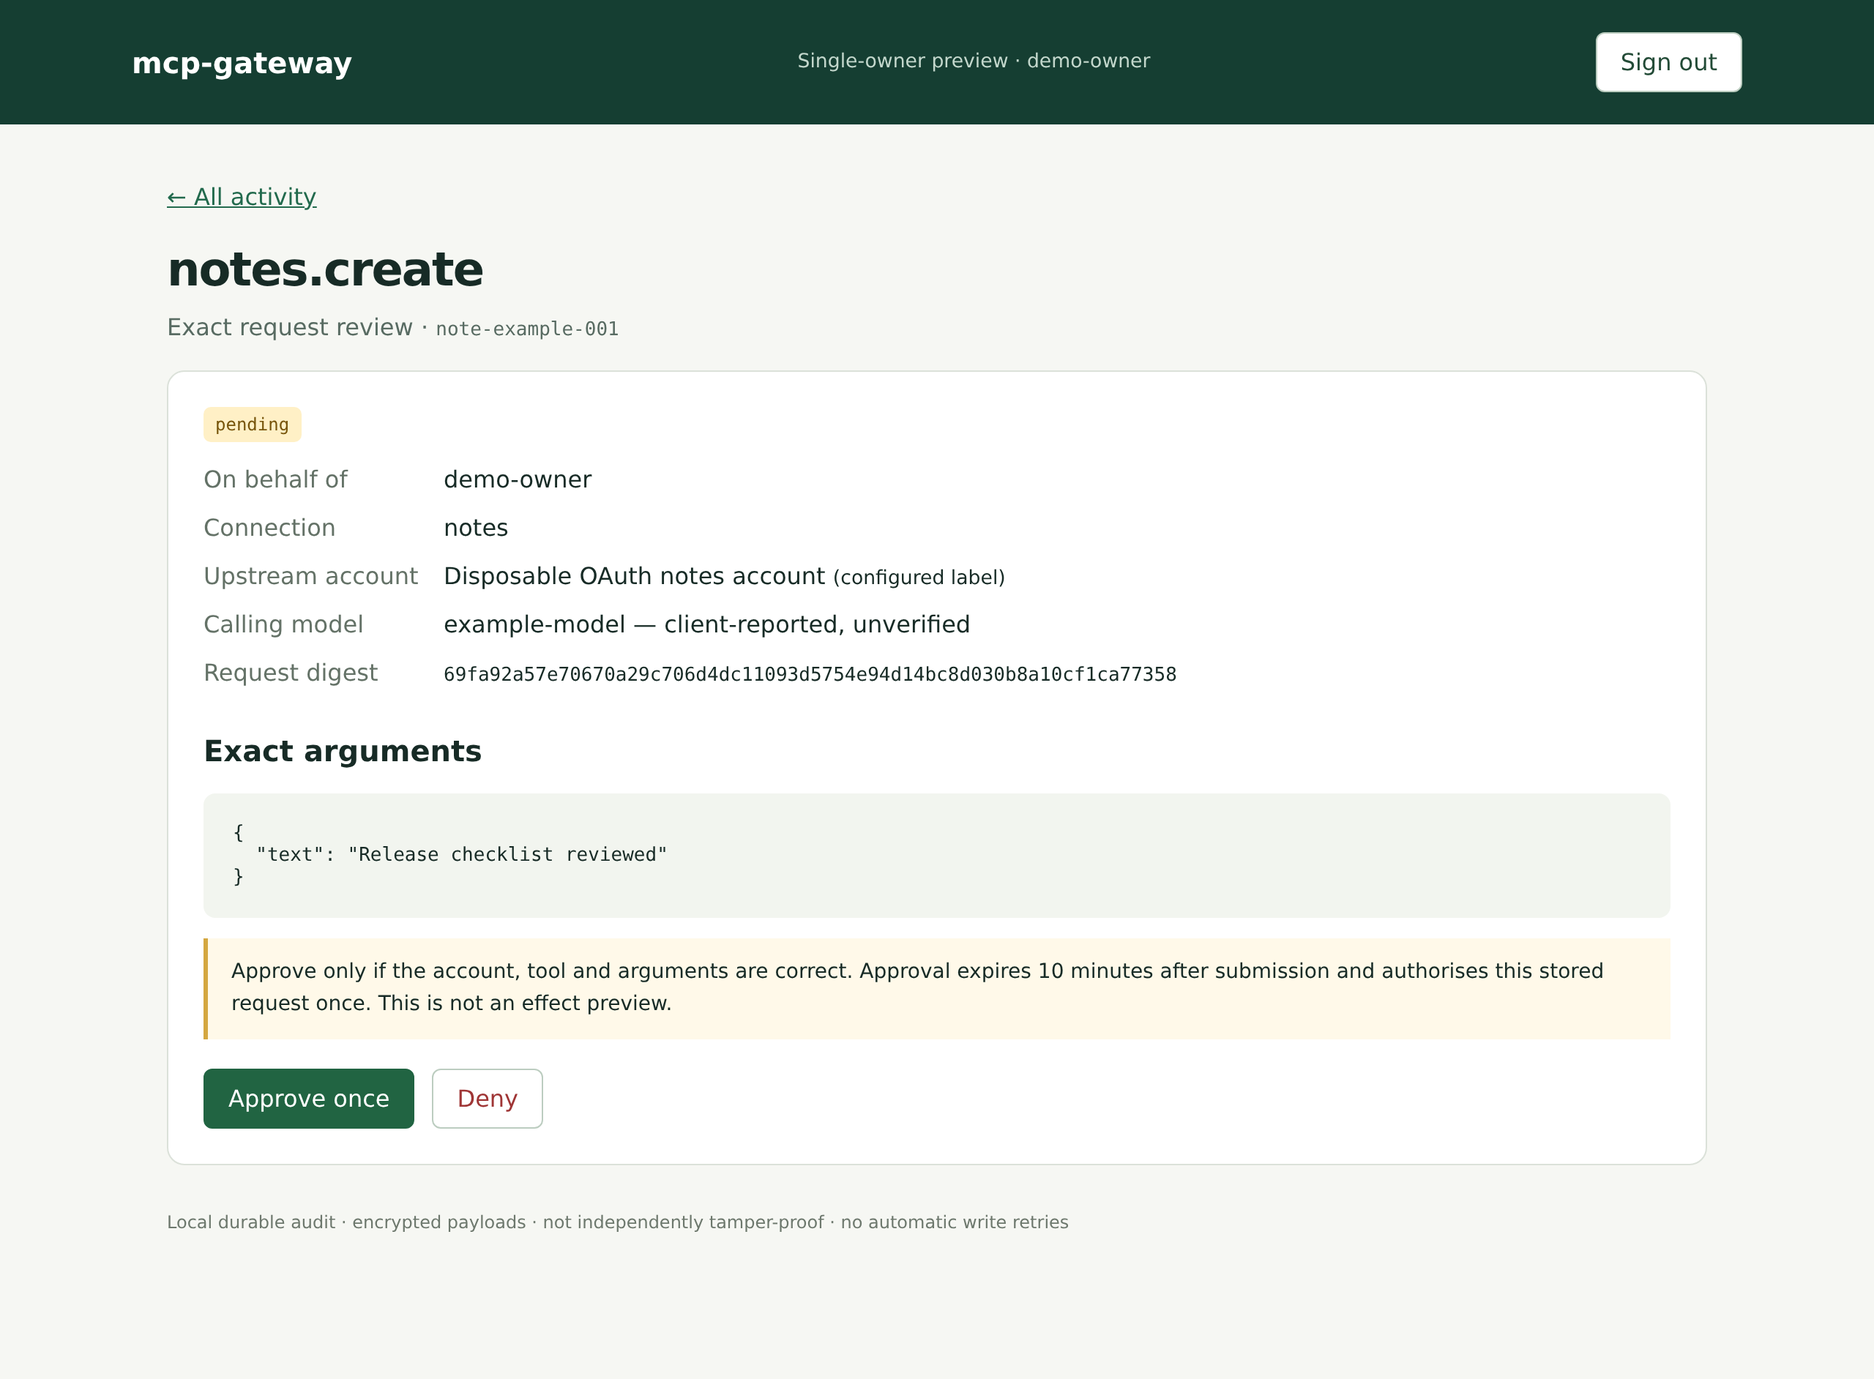
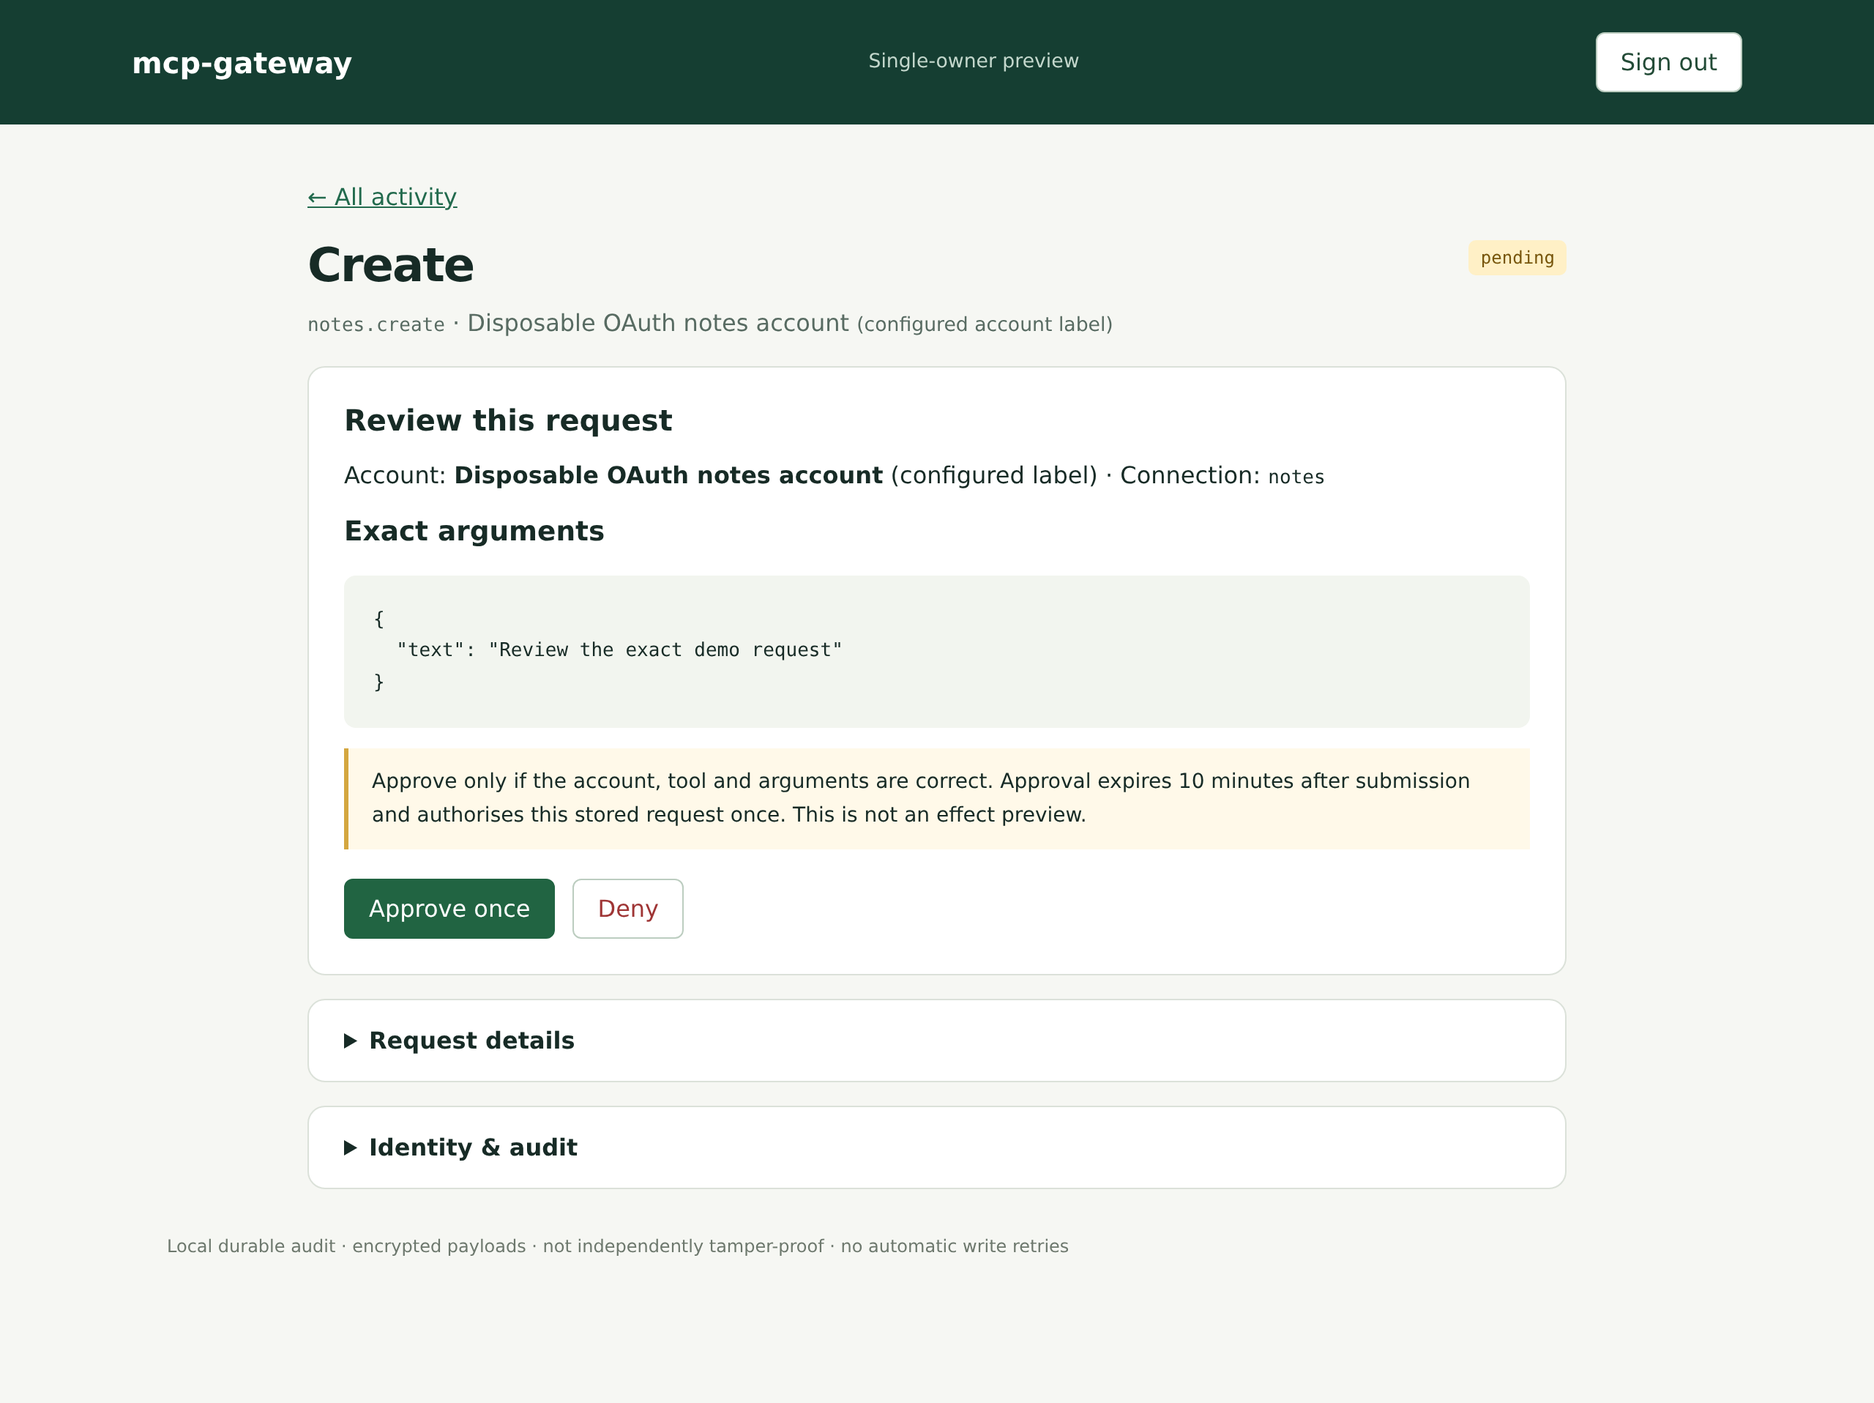
Show operation results first with readable MCP content
Amp-Thread-ID: https://ampcode.com/threads/T-01a0b6d8-e50f-7723-941c-60bca63723ba

diff --git a/internal/gateway/page.go b/internal/gateway/page.go
@@ -9,7 +9,7 @@ var page = template.Must(template.New("page").Parse(`<!doctype html>
 .heading{display:flex;justify-content:space-between;align-items:center;gap:16px}.setup{max-width:760px;margin:auto}.field{display:grid;gap:8px;margin-bottom:22px}.field label{font-weight:600}.field small,.help{color:#586b62;line-height:1.5}input,select{box-sizing:border-box;width:100%;padding:11px 12px;border:1px solid #bccdc0;border-radius:6px;background:white;color:#172b26;font:inherit}input:focus,select:focus{outline:2px solid #216442;outline-offset:2px}.setup details{margin:16px 0}.setup summary,summary{cursor:pointer}.setup details .field{margin-top:18px}.error{background:#fde9e5;border-left:3px solid #9f3535;padding:16px}.success{background:#dff3e5;padding:16px}.setup form:not(:has(option[value="bearer"]:checked)) .bearer-fields{display:none}.setup form:not(:has(option[value="oauth"]:checked)) .oauth-fields{display:none}.tool-row{display:grid;grid-template-columns:minmax(0,1fr) 210px;gap:24px;padding:22px 0;border-bottom:1px solid #e7ebe5}.tool-row:last-child{border:0}.tool-row h2{margin:0 0 8px;font:600 16px ui-monospace,monospace;overflow-wrap:anywhere}.tool-row p{line-height:1.5;overflow-wrap:anywhere}.tool-row details{margin-top:12px}.tool-row label{display:block;font-size:13px;margin-bottom:8px}.actions{flex-wrap:wrap}.endpoint{overflow-wrap:anywhere} @media(max-width:600px){.tool-row{grid-template-columns:1fr;gap:8px}.heading{align-items:flex-start;flex-direction:column}}
 @media(min-width:601px){.tool-row{grid-template-columns:minmax(0,1fr) 260px}}
 .permissions{max-width:820px;margin:auto}.connection-heading{display:flex;justify-content:space-between;align-items:center;gap:20px;margin:18px 0 6px}.connection-heading h1{margin:0;font-size:28px;overflow-wrap:anywhere}.auth-status{flex-shrink:0;font-size:13px;list-style:none;border:1px solid #bccdc0;border-radius:6px;padding:8px 12px;cursor:pointer;color:#226a4d}.auth-status::-webkit-details-marker{display:none}.auth-status:before{content:'●';margin-right:8px}.auth-status.pending{color:#77550b}.auth-details{max-width:440px}.auth-details[open]{align-self:flex-start}.auth-details .help{font-size:13px}.auth-details summary:focus-visible,button:focus-visible,.button:focus-visible{outline:2px solid #216442;outline-offset:3px}.permission-default{border:0;padding:0;margin:38px 0 28px;min-width:0}.permission-default legend{font-size:16px;font-weight:650;padding:0}.permission-default .help{font-size:14px;margin:8px 0 16px}.default-options{display:flex;border:1px solid #bccdc0;border-radius:6px;overflow:hidden;background:white}.default-options label{position:relative;flex:1;text-align:center;cursor:pointer}.default-options label+label{border-left:1px solid #bccdc0}.default-options input{position:absolute;opacity:0;width:1px;height:1px}.default-options span{display:flex;align-items:center;justify-content:center;min-height:44px;padding:8px;font-size:14px;height:100%}.default-options input:checked+span{background:#216442;color:white}.default-options input:focus-visible+span{outline:2px solid #172b26;outline-offset:-4px}.default-warning{color:#9c3724}.permissions .note{margin:24px 0}.exceptions-card{border-radius:7px;padding:22px;margin:24px 0}.exceptions-heading{display:flex;align-items:start;justify-content:space-between;gap:16px;margin-bottom:22px}.exceptions-heading h2{margin:6px 0 0;font-size:18px}.refresh-tools{text-align:right}.refresh-tools button{padding:7px 12px;font-size:13px}.refresh-tools .help{margin:6px 0 0;font-size:12px}.exception-search{display:flex;gap:12px;margin-bottom:16px}.exception-search input{flex:1;min-width:0;font-size:14px}.exception-search button{white-space:nowrap;font-size:14px}.policy-columns,.policy-row{display:grid;grid-template-columns:minmax(0,1fr) 210px 32px;gap:14px;align-items:center}.policy-columns{background:#f5f7f3;padding:10px 8px;border-block:1px solid #e7ebe5;font-size:12px}.policy-row{padding:12px 8px;border-bottom:1px solid #e7ebe5}.policy-row summary{overflow-wrap:anywhere;font-size:14px;cursor:pointer}.policy-row details p{font-size:13px;line-height:1.5;overflow-wrap:anywhere}.policy-row select{font-size:13px;padding:9px 10px}.policy-row pre{padding:12px}.remove-exception{padding:6px;border:0;background:transparent;line-height:1;display:flex;justify-content:center}.remove-exception svg{width:17px;height:17px}.tool-select{display:none}.permissions input[type=checkbox]{width:16px;height:16px;margin:0;accent-color:#216442}.bulk-mode .policy-columns,.bulk-mode .policy-row{grid-template-columns:20px minmax(0,1fr) 210px 32px}.bulk-mode .tool-select{display:block}.bulk-actions{display:flex;align-items:center;flex-wrap:wrap;gap:8px;margin:16px 0;font-size:13px}.bulk-actions button{font-size:12px;padding:7px 10px}.bulk-actions span{margin-right:auto}.tool-navigation{display:flex;flex-wrap:wrap;align-items:center;gap:16px;margin-top:18px;font-size:13px}.text-button{border:0;padding:0;background:transparent;color:#226a4d;text-decoration:underline;font-size:13px}.tool-navigation .help{margin:0;margin-right:auto;font-size:12px}.policy-footer .help{font-size:12px}.policy-footer .actions{margin-top:28px}.visually-hidden{position:absolute;width:1px;height:1px;padding:0;margin:-1px;overflow:hidden;clip-path:inset(50%);white-space:nowrap;border:0}[hidden]{display:none!important}@media(max-width:600px){.connection-heading{align-items:flex-start;flex-direction:column;gap:12px}.auth-details{max-width:100%}.exceptions-card{padding:16px}.policy-columns,.policy-row{grid-template-columns:minmax(0,1fr) 32px;gap:10px}.policy-columns .permission-column{display:none}.policy-row details{grid-column:1}.policy-row .policy-choice{grid-column:1;grid-row:2}.policy-row .remove-exception{grid-column:2;grid-row:2}.bulk-mode .policy-columns,.bulk-mode .policy-row{grid-template-columns:20px minmax(0,1fr) 32px}.bulk-mode .policy-row details,.bulk-mode .policy-row .policy-choice{grid-column:2}.bulk-mode .policy-row .remove-exception{grid-column:3}.exception-search{flex-wrap:wrap}.exception-search input{flex-basis:100%}.default-options span{font-size:12px}.exceptions-heading{gap:8px}.refresh-tools{max-width:55%}}
-</style></head><body><header><a href="/">mcp-gateway</a><small>Single-owner preview · {{.Owner}}</small><form method="post" action="/logout"><button>Sign out</button></form></header><main>
+</style></head><body><header><a href="/">mcp-gateway</a><small>Single-owner preview{{if not .Operation}} · {{.Owner}}{{end}}</small><form method="post" action="/logout"><button>Sign out</button></form></header><main>
 {{if .AddConnection}}
 <div class="setup"><a href="/">← Connections</a><h1>Add MCP</h1><p class="sub">Connect a remote server, then choose which tools agents can use.</p>
 {{if .Error}}<p class="error" role="alert">{{.Error}}</p>{{end}}
@@ -118,8 +118,19 @@ var page = template.Must(template.New("page").Parse(`<!doctype html>
 </script>
 {{else}}<p class="help">Open <a href="/connections/{{.Connection.ID}}/tools">saved permissions</a> to edit without fetching the provider.</p><button form="refresh-tools">Refresh tools</button>{{end}}</div>
 {{else}}
-{{with .Operation}}{{if .AmpThreadID}}<p class="note">Requested by Amp user <code>{{.AmpUserID}}</code> · <a href="https://ampcode.com/threads/{{.AmpThreadID}}">Open Amp thread</a><br>Identity verified by Amp. This is not human approval or model attestation.</p>{{end}}{{end}}
-{{if .Operation}}{{with .Operation}}<a href="/">← All activity</a><h1>{{.Tool}}</h1><p class="sub">Exact request review · <code>{{.ID}}</code></p><div class="card"><span class="badge {{.Status}}">{{.Status}}</span><dl><dt>On behalf of</dt><dd>{{.Subject}}</dd><dt>Connection</dt><dd>{{.Connection}}</dd><dt>Upstream account</dt><dd>{{.Account}} <small>(configured label)</small></dd><dt>Calling model</dt><dd>{{if .Model}}{{.Model}} — client-reported, unverified{{else}}Unknown — not supplied by client{{end}}</dd><dt>Request digest</dt><dd><code>{{.Digest}}</code></dd></dl><h2>Exact arguments</h2><pre>{{$.Arguments}}</pre>{{if eq .Status "pending"}}<p class="note">Approve only if the account, tool and arguments are correct. Approval expires 10 minutes after submission and authorises this stored request once. This is not an effect preview.</p><div class="actions"><form method="post" action="/operations/{{.ID}}/approve"><button class="primary">Approve once</button></form><form method="post" action="/operations/{{.ID}}/deny"><button class="danger">Deny</button></form></div>{{else}}<p class="sub">Refresh to see the latest durable execution status.</p><a class="button" href="/operations/{{.ID}}">Refresh status</a>{{end}}{{if .Result}}<h2>Upstream result</h2><pre>{{printf "%s" .Result}}</pre>{{end}}</div>{{end}}
+{{if .Operation}}{{with .Operation}}
+<section class="operation"><style>.operation{max-width:860px;margin:auto;overflow-wrap:anywhere}.operation h1{text-transform:capitalize}.operation .heading h1{margin-top:18px}.operation h2{margin-top:0}.operation summary{font-weight:600}.operation details.card{padding:18px 24px}.operation pre{line-height:1.65;font-size:13px}.operation .attribution{font-size:14px;margin:22px 0}.operation .result pre{background:#f7f9f5;border:1px solid #e7ebe5}.operation .result details{margin-top:24px}.operation .result summary{font-size:13px;color:#586b62}</style>
+<a href="/">← All activity</a><div class="heading"><h1>{{$.Title}}</h1><span class="badge {{.Status}}" role="status">{{.Status}}</span></div>
+<p class="sub"><code>{{.Tool}}</code> · {{.Account}} <small>(configured account label)</small></p>
+{{if .AmpThreadID}}<p class="attribution"><a href="https://ampcode.com/threads/{{.AmpThreadID}}">Open Amp thread ↗</a> · Amp identity verified. Not human approval or model attestation.</p>{{end}}
+{{if eq .Status "pending"}}<div class="card"><h2>Review this request</h2><p>Account: <strong>{{.Account}}</strong> (configured label) · Connection: <code>{{.Connection}}</code></p><h3>Exact arguments</h3><pre>{{$.Arguments}}</pre><p class="note">Approve only if the account, tool and arguments are correct. Approval expires 10 minutes after submission and authorises this stored request once. This is not an effect preview.</p><div class="actions"><form method="post" action="/operations/{{.ID}}/approve"><button class="primary">Approve once</button></form><form method="post" action="/operations/{{.ID}}/deny"><button class="danger">Deny</button></form></div></div>
+{{else if or (eq .Status "ready") (eq .Status "running")}}<p class="sub">Refresh to see the latest execution status.</p><a class="button" href="/operations/{{.ID}}">Refresh status</a>
+{{else if eq .Status "unknown"}}<p class="note">The outcome is unknown. Check the upstream service before trying again. This call will not be retried automatically.</p>
+{{else if eq .Status "denied"}}<p class="sub">This request was denied and was not executed.</p>
+{{else if eq .Status "expired"}}<p class="sub">This request expired and was not executed.</p>{{end}}
+{{if .Result}}<div class="card result"><h2>{{if eq .Status "failed"}}Error response{{else}}Result{{end}}</h2>{{range $.ResultBlocks}}<pre>{{.}}</pre>{{end}}<details><summary>{{if eq .Status "unknown"}}Stored response{{else}}Raw MCP response{{end}}</summary><pre>{{$.RawResult}}</pre></details></div>{{end}}
+<details class="card"><summary>Request details</summary><dl><dt>Request ID</dt><dd><code>{{.ID}}</code></dd><dt>Tool</dt><dd><code>{{.Tool}}</code></dd><dt>Connection</dt><dd>{{.Connection}}</dd></dl><h3>Exact arguments</h3><pre>{{$.Arguments}}</pre></details>
+<details class="card"><summary>Identity &amp; audit</summary><dl><dt>On behalf of</dt><dd>{{.Subject}}</dd>{{if .AmpUserID}}<dt>Amp user</dt><dd><code>{{.AmpUserID}}</code> (verified)</dd>{{end}}<dt>Upstream account</dt><dd>{{.Account}} <small>(configured label, not verified identity)</small></dd><dt>Calling model</dt><dd>{{if .Model}}{{.Model}} — client-reported, unverified{{else}}Unknown — not supplied by client{{end}}</dd><dt>Request digest</dt><dd><code>{{.Digest}}</code></dd></dl></details></section>{{end}}
 {{else}}<h1>Connections and activity</h1><p class="sub">Choose the tools agents can use. Review calls that need your approval.</p><div class="heading"><h2>Connections</h2><a class="button primary" href="/connections/new">Add MCP</a></div><div class="grid">{{range .Connections}}<div class="card"><strong>{{.ID}}</strong><p class="sub">{{.Account}}</p>
 {{if .OAuth}}<p role="status" style="display:flex;align-items:center;flex-wrap:wrap;gap:8px"><span class="badge {{if eq .AuthStatus "Connected"}}succeeded{{else}}pending{{end}}">OAuth · {{.AuthStatus}}</span><small><a href="/connections/{{.ID}}/connect">{{if eq .AuthStatus "Not connected"}}Connect{{else}}Reconnect{{end}}</a></small></p>
 {{if eq .AuthStatus "Connected"}}<p class="help"><small>Credentials saved; provider access not verified.</small></p>{{else if eq .AuthStatus "Status unavailable"}}<p class="help"><small>Could not read saved credentials. Try again before reconnecting.</small></p>{{end}}{{end}}

diff --git a/internal/gateway/gateway_test.go b/internal/gateway/gateway_test.go
@@ -239,3 +239,62 @@ func TestMCPProtocolAndApprovalUI(t *testing.T) {
 		t.Fatal("missing schema")
 	}
 }
+
+func TestOperationPresentation(t *testing.T) {
+	for _, status := range []string{"pending", "ready", "running", "succeeded", "failed", "denied", "expired", "unknown"} {
+		t.Run(status, func(t *testing.T) {
+			g, s, _ := fixture(t)
+			o := store.Operation{ID: "display-test", Tool: "notes.list_items", Connection: "notes", Account: "test account", Status: status, Arguments: map[string]any{"text": "exact request"}}
+			if status == "succeeded" || status == "failed" {
+				o.Result = json.RawMessage(`{"content":[{"type":"text","text":"{\"id\":9007199254740993,\"extra\":true}"},{"type":"text","text":"<script>alert(1)</script>"},{"type":"resource_link","uri":"https://example.com/item"},{"type":"text","text":"{\"count\":2}"}],"structuredContent":{"count":2},"_meta":{"trace":"kept"}}`)
+			}
+			if _, err := s.Submit(t.Context(), o); err != nil {
+				t.Fatal(err)
+			}
+			r := httptest.NewRequest("GET", "/operations/display-test", nil)
+			r.SetPathValue("id", o.ID)
+			w := httptest.NewRecorder()
+			g.operation(w, r)
+			body := w.Body.String()
+			if strings.Contains(body, "Refresh status") != (status == "ready" || status == "running") {
+				t.Fatal("incorrect refresh control")
+			}
+			if strings.Contains(body, "Approve once") != (status == "pending") {
+				t.Fatal("incorrect approval control")
+			}
+			if status == "pending" && strings.Index(body, "exact request") > strings.Index(body, "Approve once") {
+				t.Fatal("arguments must precede approval")
+			}
+			if len(o.Result) > 0 {
+				if strings.Count(body, "<pre>{\n  &#34;count&#34;: 2\n}</pre>") != 1 {
+					t.Fatal("identical structured and text content should be shown once")
+				}
+				if !strings.Contains(body, "<pre>{\n  &#34;id&#34;: 9007199254740993,\n  &#34;extra&#34;: true\n}</pre>") {
+					t.Fatal("text content must be decoded and formatted, not just present in the raw response")
+				}
+				for _, want := range []string{"9007199254740993", "extra", "resource_link", "https://example.com/item", "count", "kept", "Raw MCP response", "&lt;script&gt;"} {
+					if !strings.Contains(body, want) {
+						t.Errorf("missing %s", want)
+					}
+				}
+				if strings.Contains(body, "<script>alert") {
+					t.Fatal("unescaped upstream output")
+				}
+				if strings.Index(body, "9007199254740993") > strings.Index(body, "Request details") {
+					t.Fatal("result should come first")
+				}
+			}
+		})
+	}
+}
+
+func TestPrettyJSON(t *testing.T) {
+	for _, tc := range []struct{ input, want string }{
+		{`{"id":9007199254740993,"id":2}`, "{\n  \"id\": 9007199254740993,\n  \"id\": 2\n}"},
+		{"not JSON\nplain text", "not JSON\nplain text"},
+	} {
+		if got := prettyJSON([]byte(tc.input)); got != tc.want {
+			t.Fatalf("got %q, want %q", got, tc.want)
+		}
+	}
+}

diff --git a/internal/gateway/gateway.go b/internal/gateway/gateway.go
@@ -2,6 +2,7 @@
 package gateway
 
 import (
+	"bytes"
 	"context"
 	"crypto/sha256"
 	"crypto/subtle"
@@ -340,8 +341,47 @@ func (g *Gateway) operation(w http.ResponseWriter, r *http.Request) {
 		return
 	}
 	args, _ := json.MarshalIndent(o.Arguments, "", "  ")
-	g.render(w, map[string]any{"Operation": o, "Arguments": string(args), "Owner": g.cfg.OwnerSubject})
+	var result struct {
+		Content    []json.RawMessage `json:"content"`
+		Structured json.RawMessage   `json:"structuredContent"`
+	}
+	var blocks []string
+	if json.Unmarshal(o.Result, &result) == nil {
+		if len(result.Structured) > 0 {
+			blocks = append(blocks, prettyJSON(result.Structured))
+		}
+		for _, raw := range result.Content {
+			var block struct {
+				Type string `json:"type"`
+				Text string `json:"text"`
+			}
+			if json.Unmarshal(raw, &block) == nil && block.Type == "text" {
+				text := prettyJSON([]byte(block.Text))
+				if len(result.Structured) == 0 || text != prettyJSON(result.Structured) {
+					blocks = append(blocks, text)
+				}
+			} else {
+				blocks = append(blocks, prettyJSON(raw))
+			}
+		}
+	}
+	if len(blocks) == 0 && len(o.Result) > 0 {
+		blocks = append(blocks, prettyJSON(o.Result))
+	}
+	name := strings.TrimPrefix(o.Tool, o.Connection+".")
+	name = strings.ReplaceAll(name, "_", " ")
+	g.render(w, map[string]any{"Operation": o, "Title": name, "ResultBlocks": blocks, "RawResult": prettyJSON(o.Result), "Arguments": string(args), "Owner": g.cfg.OwnerSubject})
 }
+
+// Indent without decoding numbers through float64 or dropping unknown fields.
+func prettyJSON(raw []byte) string {
+	var out bytes.Buffer
+	if json.Indent(&out, raw, "", "  ") == nil {
+		return out.String()
+	}
+	return string(raw)
+}
+
 func (g *Gateway) render(w http.ResponseWriter, data any) {
 	w.Header().Set("Content-Type", "text/html; charset=utf-8")
 	if err := page.Execute(w, data); err != nil {

diff --git a/README.md b/README.md
@@ -35,6 +35,10 @@ That demo tool requires approval. You review the account and exact arguments in
 the browser, then approve or deny. The request and its outcome are saved, so the
 agent can check back later without keeping the connection open.
 
+Finished calls show the result first, with JSON formatted for reading. Expand
+**Raw MCP response** for the full response, or **Request details** and
+**Identity & audit** for the arguments and attribution.
+
 ![Reviewing a demo request before approving it](docs/images/approval.png)
 
 The activity page shows what ran, what was denied, and who approved it.
